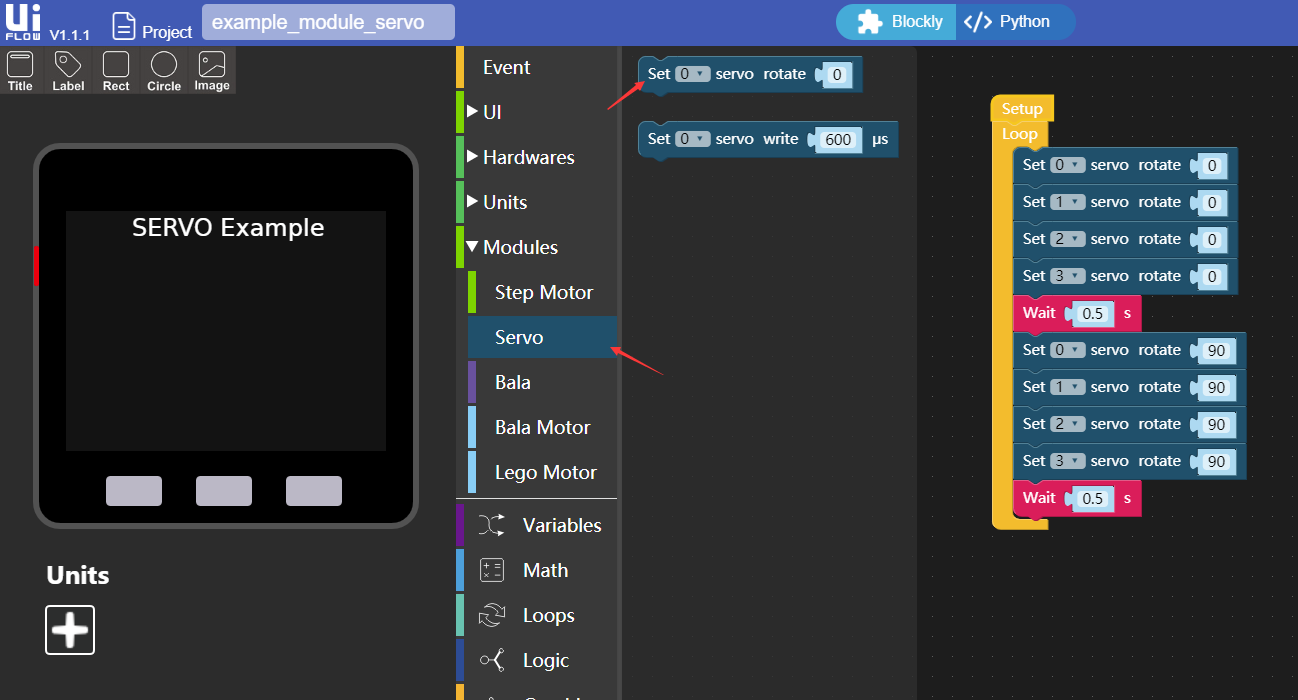
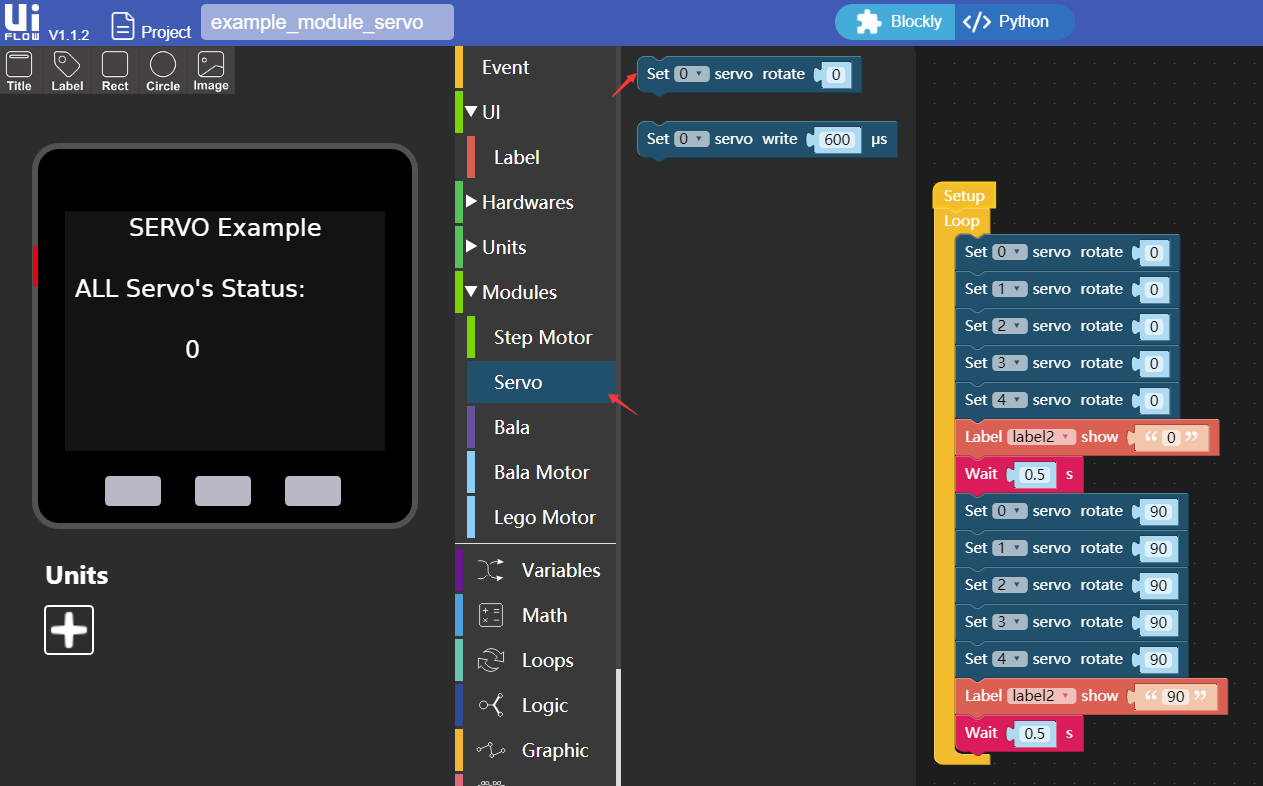
add videos

diff --git a/docs/en/unit/earth.md b/docs/en/unit/earth.md
@@ -4,7 +4,7 @@
 
 ***
 
-:memo:**[Description](#Description)**&nbsp;&nbsp;&nbsp;&nbsp;&nbsp;&nbsp;:octocat:**[Example](#Example)**&nbsp;&nbsp;&nbsp;&nbsp;&nbsp;&nbsp; :electric_plug:**[Schematic](#Schematic)** &nbsp;&nbsp;&nbsp;&nbsp;&nbsp;&nbsp;🛒**[Purchase](https://www.aliexpress.com/store/product/M5Stack-Official-Earth-Module-Grove-Compatible-Soil-monitoring-Analog-and-Digital-Output/3226069_32922643696.html?spm=2114.12010615.8148356.2.45434ff2lDdyLQ)**
+:memo:**[Description](#Description)**&nbsp;&nbsp;&nbsp;&nbsp;&nbsp;&nbsp;:octocat:**[Example](#Example)**&nbsp;&nbsp;&nbsp;&nbsp;&nbsp;&nbsp; :electric_plug:**[Schematic](#Schematic)** &nbsp;&nbsp;&nbsp;&nbsp;&nbsp;&nbsp;🛒**[Purchase](https://www.aliexpress.com/store/product/M5Stack-Official-Earth-Module-Grove-Compatible-Soil-monitoring-Analog-and-Digital-Output/3226069_32922643696.html?spm=2114.12010615.8148356.2.45434ff2lDdyLQ)**&nbsp;&nbsp;&nbsp;&nbsp;&nbsp;&nbsp;:clapper:**[Related Video](#Related-Video)**
 
 ## Description
 
@@ -68,3 +68,13 @@ void loop() {
  <tr><td>M5Core(GROVE B)</td><td>GPIO36</td><td>GPIO26</td><td>5V</td><td>GND</td></tr>
  <tr><td>EARTH Unit</td><td>AnalogSignal Pin</td><td>DigitalSignal Pin</td><td>5V</td><td>GND</td></tr>
 </table>
+
+## Related Video
+
+**EARTH Tutorial - Monitor vase soil moisture 1**
+
+<iframe width="560" height="315" src="https://www.youtube.com/embed/nMpe686jANA" frameborder="0" allow="accelerometer; autoplay; encrypted-media; gyroscope; picture-in-picture" allowfullscreen></iframe>
+
+**EARTH Case - Monitor vase soil moisture 2**
+
+<iframe width="560" height="315" src="https://www.youtube.com/embed/AaiCRt06RWM" frameborder="0" allow="accelerometer; autoplay; encrypted-media; gyroscope; picture-in-picture" allowfullscreen></iframe>

diff --git a/docs/zh_CN/unit/earth.md b/docs/zh_CN/unit/earth.md
@@ -72,6 +72,10 @@ void loop() {
 
 ## 相关视频
 
-**EARTH 的教程 - 监控花瓶土壤含水量**
+**EARTH 的教程 - 监控花瓶土壤含水量 1**
 
 <iframe height=498 width=510 src='https://player.youku.com/embed/XMzg0MjE0MjI0MA==' frameborder="0" allow="accelerometer; autoplay; encrypted-media; gyroscope; picture-in-picture" allowfullscreen></iframe>
+
+**EARTH 的案例 - 监控花瓶土壤含水量 2**
+
+<iframe height=498 width=510 src='https://player.youku.com/embed/XNDAzMjE2NTc0MA==' frameborder="0" allow="accelerometer; autoplay; encrypted-media; gyroscope; picture-in-picture" allowfullscreen></iframe>

diff --git a/docs/en/module/servo.md b/docs/en/module/servo.md
@@ -65,6 +65,12 @@ Wire.write(angle);//0-180°
 Wire.endTransmission();
 ```
 
+### 2. UIFlow
+
+*If you want the complete code, please click [here](https://github.com/m5stack/M5-ProductExampleCodes/tree/master/Module/SERVO/UIFlow).*
+
+<img src="assets/img/product_pics/module/module_example/SERVO/example_module_servo_01.png">
+
 ## Schematic
 
 <img src="assets/img/product_pics/module/servo_sch.png">

diff --git a/docs/ja/module/servo.md b/docs/ja/module/servo.md
@@ -92,6 +92,12 @@ void loop() {
 }
 ```
 
+### 2. UIFlow
+
+*特定のルーチンをクリックしてください[ルーチン](https://github.com/m5stack/M5-ProductExampleCodes/tree/master/Module/SERVO/UIFlow).*
+
+<img src="assets/img/product_pics/module/module_example/SERVO/example_module_servo_01.png">
+
 ## 回路図
 
 <img src="assets/img/product_pics/module/servo_sch.png">

diff --git a/docs/zh_CN/module/servo.md b/docs/zh_CN/module/servo.md
@@ -89,6 +89,12 @@ void loop() {
 }
 ```
 
+### 2. UIFlow
+
+*具体例程请点击[这里](https://github.com/m5stack/M5-ProductExampleCodes/tree/master/Module/SERVO/UIFlow)。*
+
+<img src="assets/img/product_pics/module/module_example/SERVO/example_module_servo_01.png">
+
 ## 原理图
 
 <img src="assets/img/product_pics/module/servo_sch.png">
